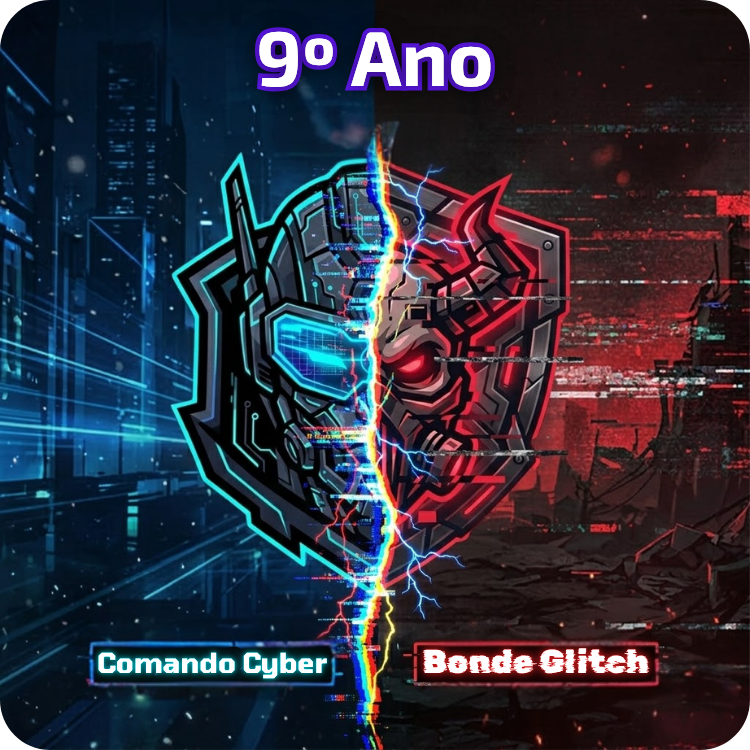
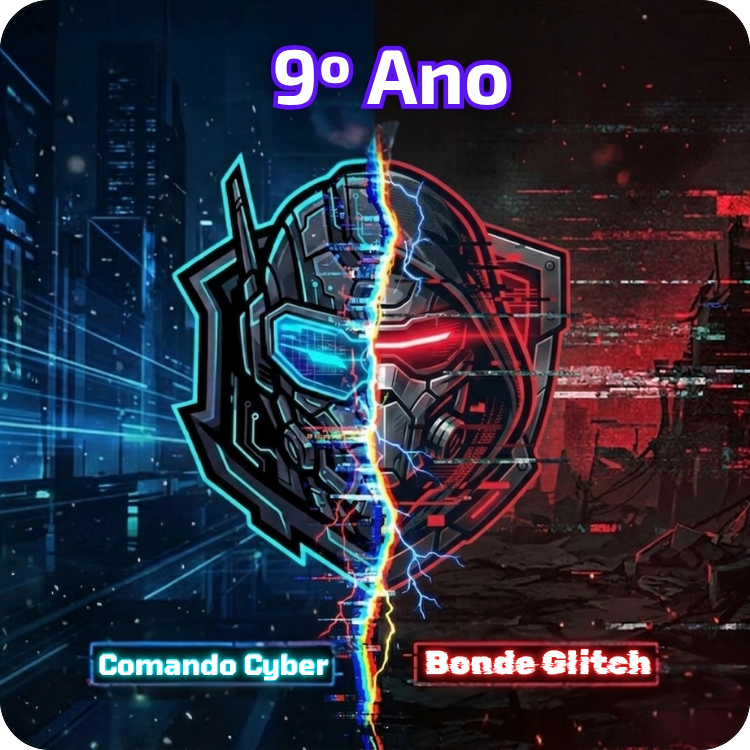
Missão 2.2.0

diff --git a/index.html b/index.html
@@ -470,7 +470,7 @@
                                     <div class="ferramenta-ai-how">
                                         <p>Acessa os modelos Gemini direto pelo navegador, sem precisar instalar nada.
                                             Ideal pra testar prompts, criar resumos, gerar questões de prova e até
-                                            analisar imagens e PDFs.</p>
+                                            analisar imagens e PDFs. Com as atualizações atuais, é possível até mesmo criar Aplicativos.</p>
                                     </div>
 
                                 </div>
@@ -484,9 +484,7 @@
                                             <h5>Dica de Malandro</h5>
                                         </div>
                                         <div class="ferramenta-tip-box-content">
-                                            <p>Começa com: "Você é um professor de [matéria]. Explique [conceito] como
-                                                se eu tivesse na aula do Cassiano, usando exemplos do cotidiano e no
-                                                máximo 5 tópicos."</p>
+                                            <p>Começa com: "👤 [Persona] Você é um professor de [matéria]. 🎯 [Objetivo] Explique [conceito] como se eu tivesse na aula do Cassiano, 🗣️ [Tom] usando exemplos do cotidiano e 🛑 [Restrição] em no máximo 5 tópicos."</p>
                                         </div>
                                     </div>
                                 </div>
@@ -503,7 +501,7 @@
                                                 <h4>Notebook LM</h4>
                                             </div>
                                             <div>
-                                                <p>Crie e experimente com modelos de IA do Google.</p>
+                                                <p>A IA que estuda os seus PDFs e cadernos por você.</p>
                                             </div>
                                         </div>
                                     </div>
@@ -529,9 +527,7 @@
                                             <h5>Dica de Malandro</h5>
                                         </div>
                                         <div class="ferramenta-tip-box-content">
-                                            <p>“Sobe o PDF do livro ou apostila e pergunta: "Crie 10 questões de
-                                                múltipla escolha sobre [tema], com gabarito comentado. Foque nos pontos
-                                                que mais caem em prova.”</p>
+                                            <p>Sobe o PDF do livro e manda: "👤 [Persona] Aja como um elaborador do ENEM. 🎯 [Objetivo] Crie 10 questões de múltipla escolha sobre [tema], com gabarito. 🛑 [Restrição] Foque apenas nos pontos que mais caem em prova e 🗣️ [Tom] seja direto."</p>
                                         </div>
                                     </div>
                                 </div>
@@ -547,7 +543,7 @@
                                                 <h4>Perplexity</h4>
                                             </div>
                                             <div>
-                                                <p>Crie e experimente com modelos de IA do Google.</p>
+                                                <p>O motor de busca Hacker. Responde tudo já com as fontes reais.</p>
                                             </div>
                                         </div>
                                     </div>
@@ -573,10 +569,7 @@
                                             <h5>Dica de Malandro</h5>
                                         </div>
                                         <div class="ferramenta-tip-box-content">
-                                            <p>“Tenta: "Pesquise sobre [tema do trabalho] e me dê um resumo com os 5
-                                                pontos
-                                                principais, citando as fontes. Preciso para um trabalho escolar do 9º
-                                                ano."
+                                            <p>Tenta: "🎯 [Objetivo] Pesquise sobre [tema do trabalho] e me dê um resumo com os 5 pontos principais. 🛑 [Restrição] Cite todas as fontes no final. 👤 [Persona] Aja como um pesquisador e 🗣️ [Tom] use uma linguagem fácil para um aluno do 9º ano entender."
                                             </p>
                                         </div>
                                     </div>

diff --git a/charada.html b/charada.html
@@ -96,7 +96,7 @@
                         <!-- A CHARADA E O CÓDIGO -->
                         <p class="texto-terminal text-center mb-4">
                             <br>
-                            <strong>"Não sou um robô de metal, sou o cérebro escondido nos seus aplicativos. O que eu sou?"</strong>
+                            <strong>"Sou a chave que abre o diálogo entre humano e máquina. Sem mim, a inteligência não entende o que você quer. O que eu sou?"</strong>
                             <br>
                             <br>
                         </p>
@@ -310,7 +310,7 @@
                 </div>
 
                     <p class="text-secondary text-center mb-4" style="font-size: 12px;">
-                            DICA DO SISTEMA: A chave de tradução foi fragmentada nos arquivos de hoje (Slides).
+                            DICA DO SISTEMA: A chave de tradução foi fragmentada nos arquivos da Missão 2 e Redes Sociais.
                     </p>
 
            

diff --git a/missions/missao1.html b/missions/missao1.html
@@ -276,11 +276,11 @@
 
 
                 <div class="mmsion-next-class-box">
-                    <a href="#">
+                    <a href="missao2.html">
                         <div class="mmsion-next-class-box-img"><img src="../src/media/icons/play.png" alt=""></div>
                         <div class="mmsion-next-class-box-text">
                             <p>PRÓXIMA MISSÃO</p>
-                            <h5>Mission 02 - Uso C X Uso D</h5>
+                            <h5>Mission 02 - A Arte do Prompt</h5>
                         </div>
                     </a>
                 </div>

diff --git a/missions/missao2.html b/missions/missao2.html
@@ -536,11 +536,11 @@
             <div class="modal-content">
 
                 <div class="modal-header">
-        <h5 class="modal-title">Quiz de Calibração</h5>
+        <h5 class="modal-title">Kahoot</h5>
         <button type="button" class="btn-close" data-bs-dismiss="modal" aria-label="Close"></button>
       </div>
       <div class="modal-body p-0">
-    <iframe src="https://forms.gle/XKQV7bZV2bSsFEtQ6"></iframe>
+    <iframe src="https://kahoot.it/challenge/05436920?challenge-id=29fd2660-f968-4bfe-b6ca-f9029d2c24e9_1779656062446"></iframe>
       </div>
       <div class="modal-footer">
         <button type="button" class="btn btn-secondary" style="color: black;" data-bs-dismiss="modal">Fechar</button>

diff --git a/tratado.html b/tratado.html
@@ -280,7 +280,7 @@
             <div class="assinar-tratado">
 
                 <div class="assinar-tratado-header">
-                    <div class="assinar-tratado-header-name"><img src="/src/media/icons/plus.png" alt="">
+                    <div class="assinar-tratado-header-name"><img src="src/media/icons/plus.png" alt="">
                         <p>ADICIONAR REGRA</p>
                     </div>
                     <div class="assinar-tratado-hr"></div>